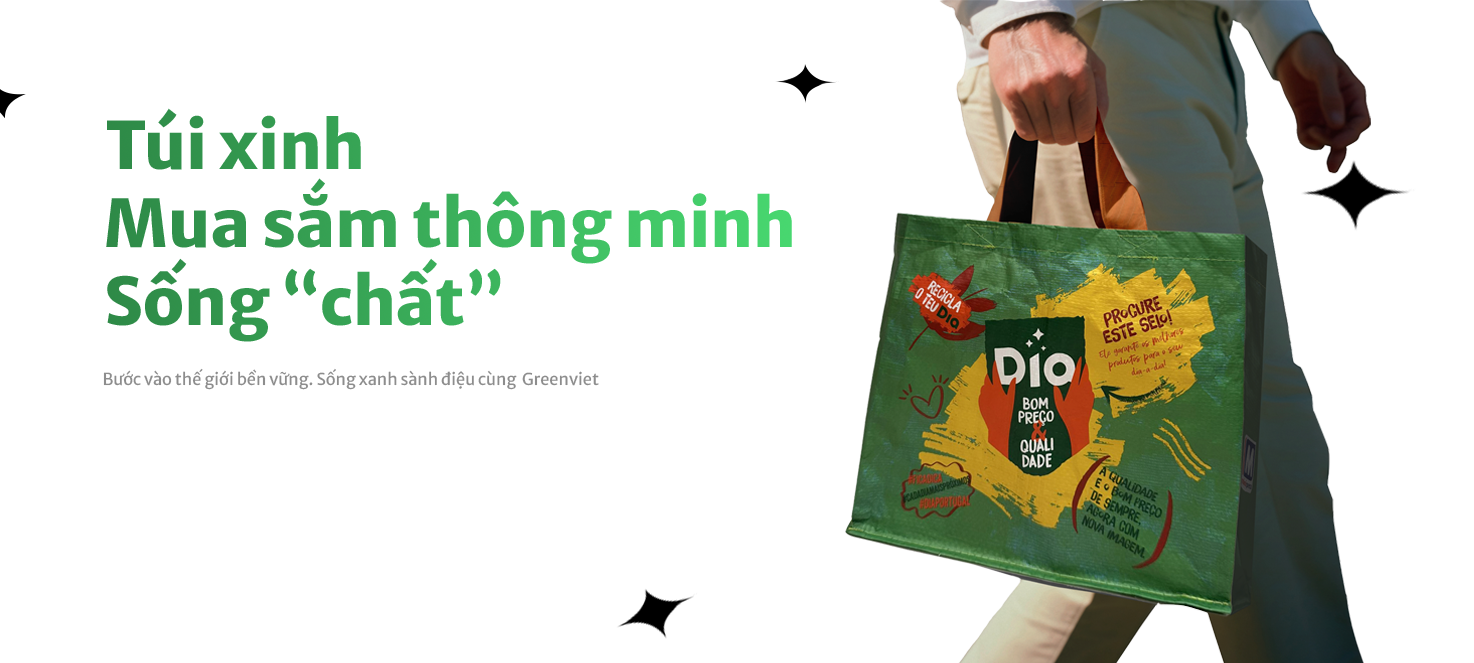
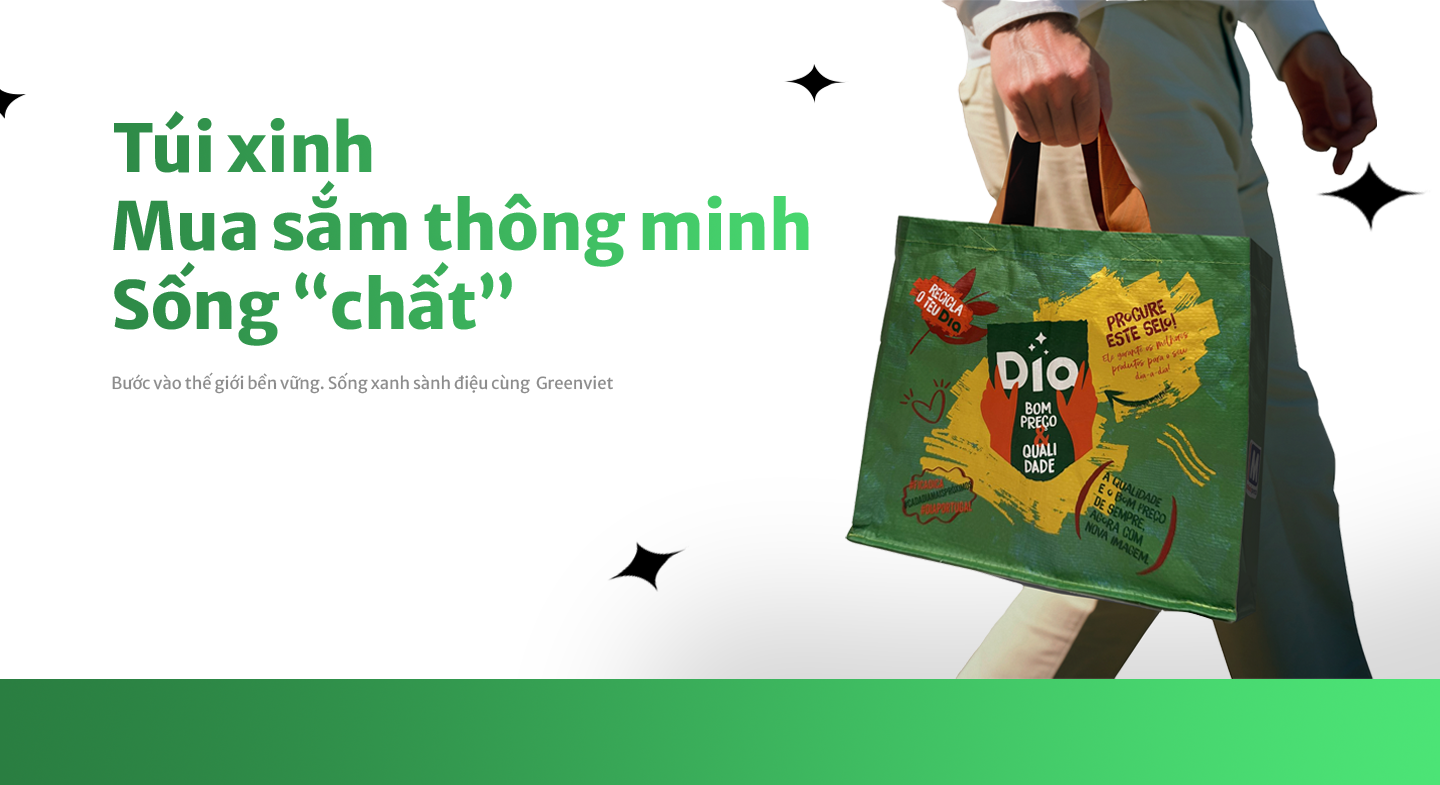
new edit

diff --git a/Unimarket.MVC/wwwroot/css/style.css b/Unimarket.MVC/wwwroot/css/style.css
@@ -510,7 +510,7 @@ ol {
 -----------------------*/
 
 .banner {
-    height: 500px;
+    height: 800px;
 }
 
 .banner__text span {
@@ -1041,7 +1041,7 @@ ol {
     }
 
 .categories__item {
-    height: 314px;
+    height: 1000px;
     display: -webkit-box;
     display: -ms-flexbox;
     display: flex;
